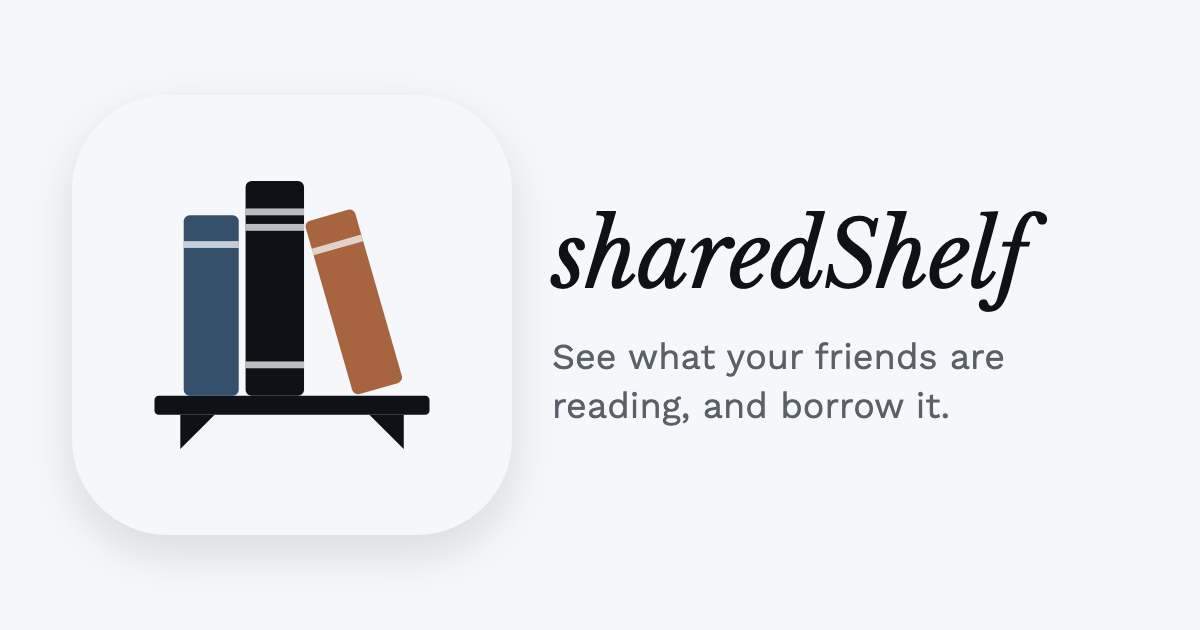
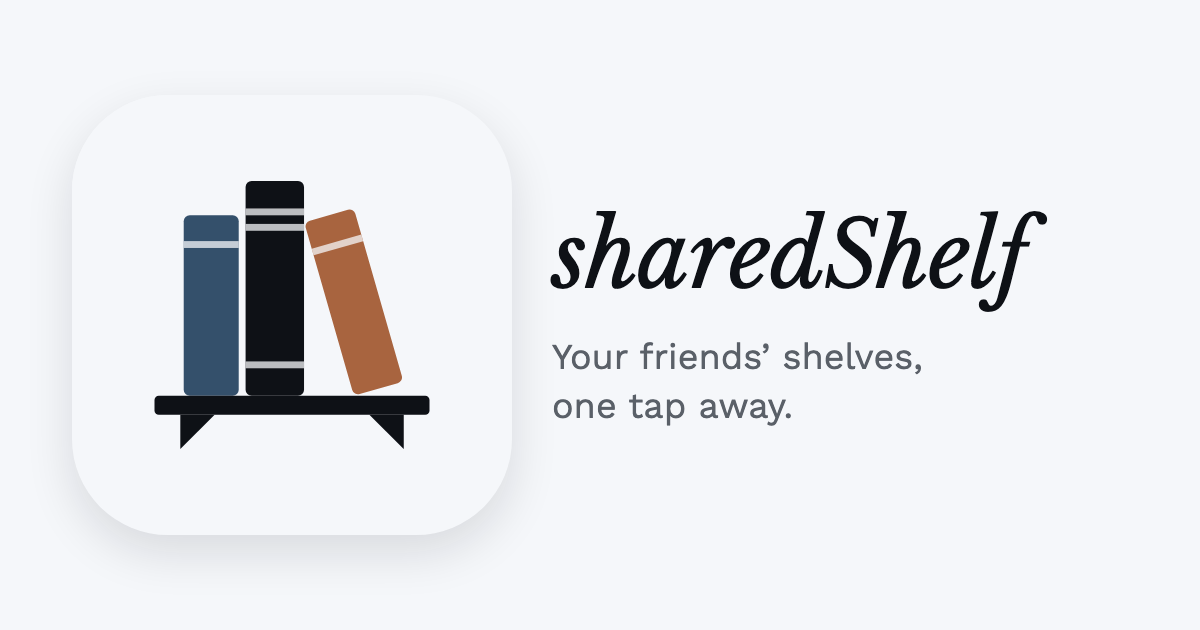
Use slogan "Your friends' shelves, one tap away." in previews and manifest

Changed region(s): [[0.4625, 0.5429, 0.8325, 0.6032], [0.4625, 0.6333, 0.8017, 0.6937]]

diff --git a/public/index.html b/public/index.html
@@ -18,11 +18,11 @@
 
     <!-- Link previews (iMessage, Slack, WhatsApp...). Crawlers don't run JS, so every
          route shares these. og:image must be absolute. Card source: assets/og-image.html -->
-    <meta name="description" content="See what your friends are reading, and borrow it." />
+    <meta name="description" content="Your friends’ shelves, one tap away." />
     <meta property="og:type" content="website" />
     <meta property="og:site_name" content="sharedShelf" />
     <meta property="og:title" content="sharedShelf" />
-    <meta property="og:description" content="See what your friends are reading, and borrow it." />
+    <meta property="og:description" content="Your friends’ shelves, one tap away." />
     <meta property="og:url" content="https://shared-shelf-henna.vercel.app/" />
     <meta property="og:image" content="https://shared-shelf-henna.vercel.app/og-image.png" />
     <meta property="og:image:width" content="1200" />

diff --git a/assets/og-image.html b/assets/og-image.html
@@ -24,5 +24,5 @@ p{margin:0;font-size:36px;line-height:1.35;color:#5a6068;max-width:560px}
   <path d="M252 744 L332 744 L252 824 Z" fill="#0e1116"/>
   <path d="M772 744 L692 744 L772 824 Z" fill="#0e1116"/>
 </svg></div>
-<div><h1>sharedShelf</h1><p>See what your friends are reading, and borrow it.</p></div></div>
+<div><h1>sharedShelf</h1><p>Your friends’ shelves,<br>one tap away.</p></div></div>
 </body></html>
